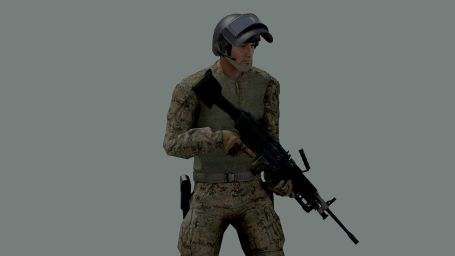
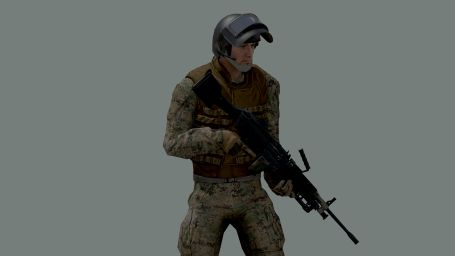
Fix Atov Machinegunner not having a correct vest and update preview image

diff --git a/addons/o_atov_loreacc/config.cpp b/addons/o_atov_loreacc/config.cpp
@@ -19,8 +19,8 @@ class CfgPatches {
             "rhs_main", // Flak Vest (Custom)
             "CUP_Creatures_Military_PMC", // Infantry: Vest, SpecialForce: Uniform(Custom)
             "CUP_Creatures_Military_USMC", // Infantry, Machinegunner: Uniform(Custom), SpecialForce: Vest, Sharpshooter: Headgear
+            "CUP_Creatures_Military_USArmy", // Machinegunner: Vest
             "CUP_Creatures_Military_Russia", // Infantry: Balaclava, Machinegunner: Helmet
-            "CUP_Creatures_People_Civil_Chernarus", // Machinegunner: Vest
             "cfp_uniforms", // Scout, ArmedPolice, Commando, Sharpshooter: Uniform
             "cfp_vests", // Scout, ArmedPolice, Commando, Sharpshooter: Vest
             "cfp_headgear" // Scout, ArmedPolice, Commando, SpecialForce: Helmet

diff --git a/addons/o_atov_loreacc/CfgVehicles.hpp b/addons/o_atov_loreacc/CfgVehicles.hpp
@@ -95,7 +95,7 @@ class CfgVehicles {
         };
 
         linkedItems[] = {
-            "CUP_V_C_Police_Holster",
+            "CUP_V_B_Interceptor_Base_Coyote",
             "CUP_H_RUS_Altyn_Shield_Up_black",
             "ItemMap",
             "ItemCompass",
@@ -103,7 +103,7 @@ class CfgVehicles {
             "ItemRadio"
         };
         respawnLinkedItems[] = {
-            "CUP_V_C_Police_Holster",
+            "CUP_V_B_Interceptor_Base_Coyote",
             "CUP_H_RUS_Altyn_Shield_Up_black",
             "ItemMap",
             "ItemCompass",
